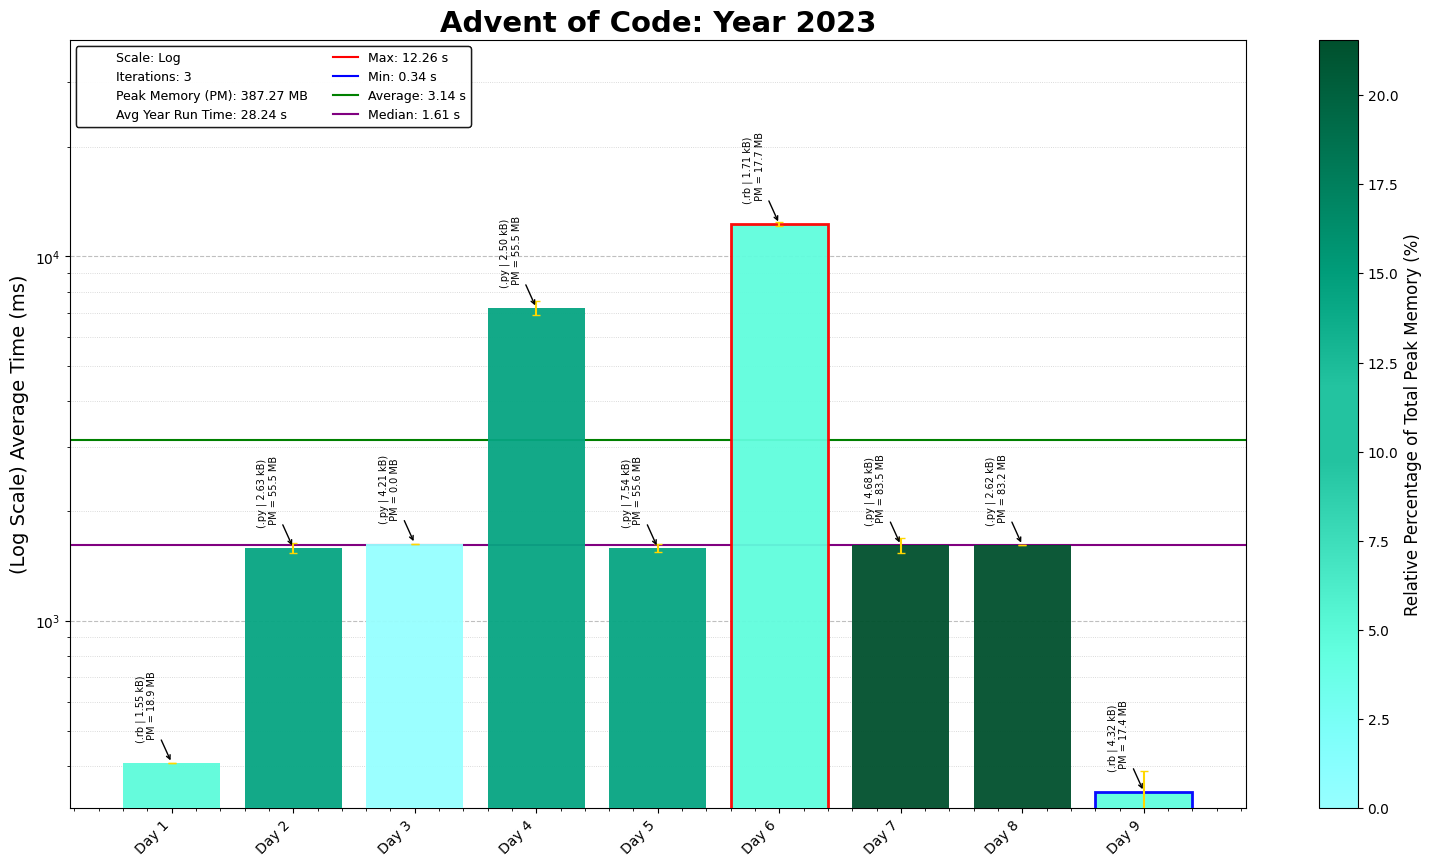
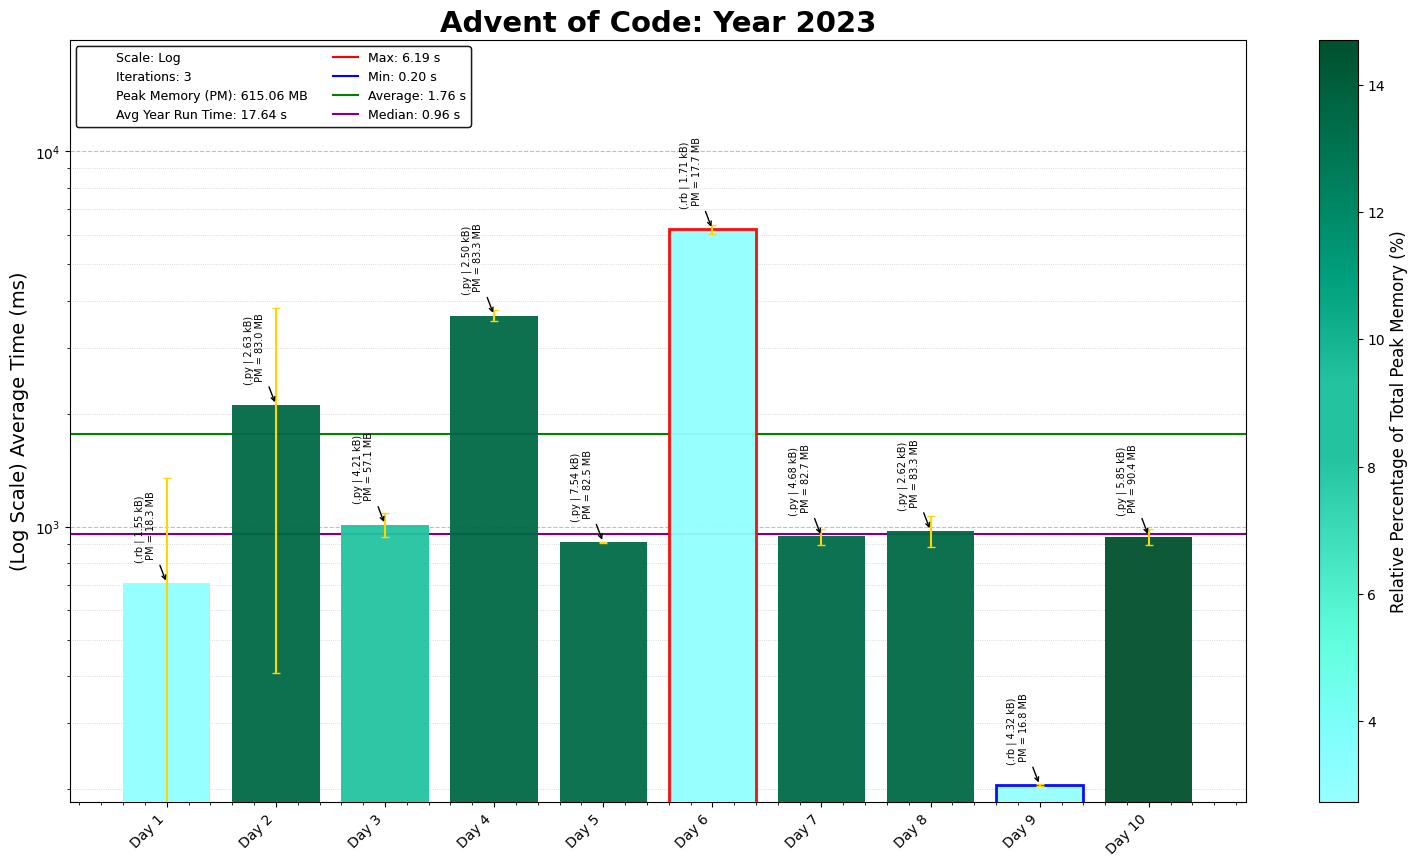
2023 Day 10

diff --git a/2023/10/2023Day10.py b/2023/10/2023Day10.py
@@ -1,0 +1,128 @@
+"""Advent of Code - Day 10, Year 2023
+Solution Started: Dec 26, 2024
+Puzzle Link: https://adventofcode.com/2023/day/10
+Solution by: abbasmoosajee07
+Brief: [Pipes and Loops]
+"""
+
+#!/usr/bin/env python3
+
+import os, re, copy, time
+import numpy as np
+import pandas as pd
+import matplotlib.pyplot as plt
+
+start_time = time.time()
+# Load the input data from the specified file path
+D10_file = "Day10_input.txt"
+D10_file_path = os.path.join(os.path.dirname(os.path.abspath(__file__)), D10_file)
+
+# Read and sort input data into a grid
+with open(D10_file_path) as file:
+    input_data = file.read().strip().split('\n')
+
+def parse_input(input_grid: list[str]) -> tuple[dict, tuple]:
+    """Parse the grid input into a dictionary with start position identified."""
+    grid_dict = {}
+    start_pos = None
+    for row_no, row in enumerate(input_grid):
+        for col_no, char in enumerate(row):
+            grid_dict[(row_no, col_no)] = char
+            if char == 'S':  # Identify start position
+                start_pos = (row_no, col_no)
+    return grid_dict, start_pos
+
+
+def print_grid(init_grid: list[str], loop_dict: dict):
+    grid_print = []
+    for row_no, row in enumerate(init_grid):
+        print_row = ''
+        for col_no, char in enumerate(row):
+            if (row_no, col_no) in loop_dict.keys():
+                print_row += loop_dict[(row_no, col_no)]
+            else:
+                print_row += char
+        grid_print.append(print_row)
+
+    for row in grid_print:
+        print(row)
+
+
+def identify_loop(grid_dict: dict, start_position: tuple) -> tuple[dict, int]:
+    """
+    Identifies the loop in the grid and tracks the directions taken at each step.
+
+    Args:
+        grid_dict (dict): The parsed grid as a dictionary of positions and tiles.
+        start_position (tuple): The starting position in the grid.
+
+    Returns:
+        tuple: A dictionary of positions to directions and the total number of steps.
+    """
+    DIRECTIONS = {'^': (-1, 0), 'v': (1, 0), '<': (0, -1), '>': (0, 1)}
+    PIPE_TYPE = {
+        '|': {'^': '^', 'v': 'v'},      # Vertical pipe
+        '-': {'>': '>', '<': '<'},      # Horizontal pipe
+        'L': {'<': '^', 'v': '>'},      # Elbow L
+        'J': {'>': '^', 'v': '<'},      # Elbow J
+        '7': {'>': 'v', '^': '<'},      # Elbow 7
+        'F': {'^': '>', '<': 'v'},      # Elbow F
+        'S': {'^': '^', 'v': 'v', '<': '<', '>': '>'}  # Starting point
+    }
+
+    graph = {}
+    loop_dict = {start_position:'S'}
+    visited = set()
+
+    # Build the graph from the grid dictionary
+    for pos, tile in grid_dict.items():
+        row, col = pos
+        adjacent = []
+        # Define valid moves based on tile type
+        if tile in '-J7S':  # Can connect to the left
+            adjacent.append((row, col - 1))
+        if tile in '-FLS':  # Can connect to the right
+            adjacent.append((row, col + 1))
+        if tile in '|F7S':  # Can connect downward
+            adjacent.append((row + 1, col))
+        if tile in '|LJS':  # Can connect upward
+            adjacent.append((row - 1, col))
+        # Store the adjacent connections
+        graph[(row, col)] = adjacent
+
+    # Initialize BFS from the start position
+    visited.add(start_position)
+    q = set([start_position])
+    steps = -1  # Count the number of steps
+
+    # BFS to find the furthest point and track directions
+    while q:
+        nxt = set()
+        for current_row, current_col in q:
+            for next_row, next_col in graph.get((current_row, current_col), []):
+                # Ensure bidirectional connection is valid
+                if (next_row, next_col) not in visited and (current_row, current_col) in graph.get((next_row, next_col), []):
+                    # Determine the new direction
+                    row_diff, col_diff = next_row - current_row, next_col - current_col
+                    for dir_key, (dr, dc) in DIRECTIONS.items():
+                        if (row_diff, col_diff) == (dr, dc):
+                            new_direction = PIPE_TYPE[grid_dict[(next_row, next_col)]].get(dir_key, '?')
+                            break
+                    else:
+                        new_direction = '?'
+
+                    nxt.add((next_row, next_col))
+                    visited.add((next_row, next_col))
+                    loop_dict[(next_row, next_col)] = new_direction  # Track the direction
+        q = nxt
+        steps += 1
+    loop_dict[(next_row, next_col)] = 'X'
+    return loop_dict, steps
+
+
+grid_dict, start_pos = parse_input(input_data)
+loop_path, steps = identify_loop(grid_dict, start_pos)
+print("Part 1:", steps)
+
+print(f"Execution Time: {time.time() - start_time:.5f}")
+
